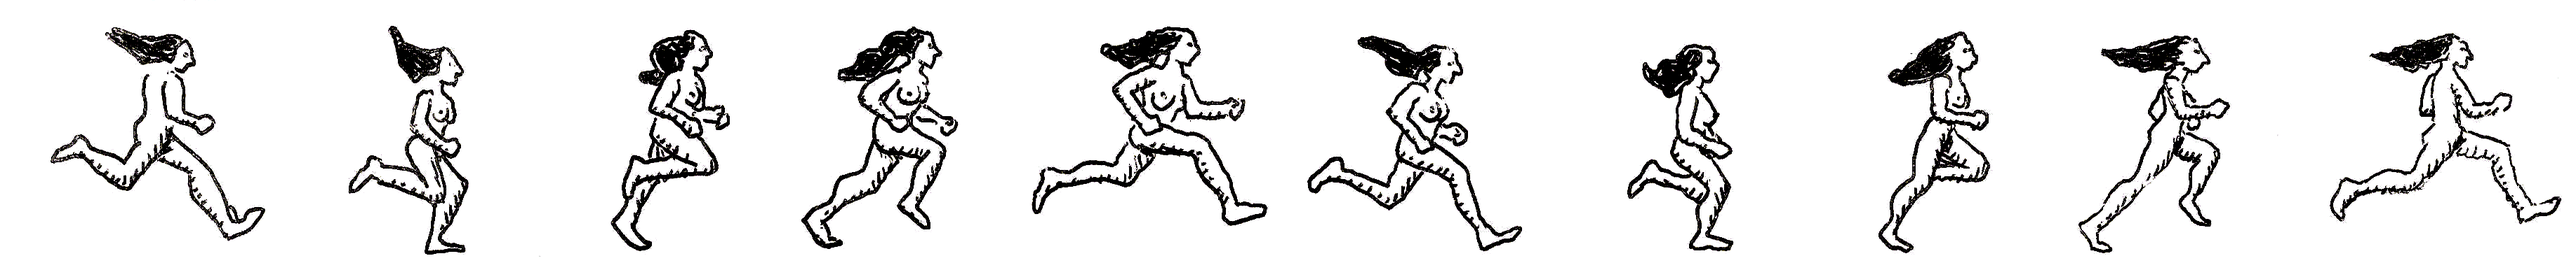
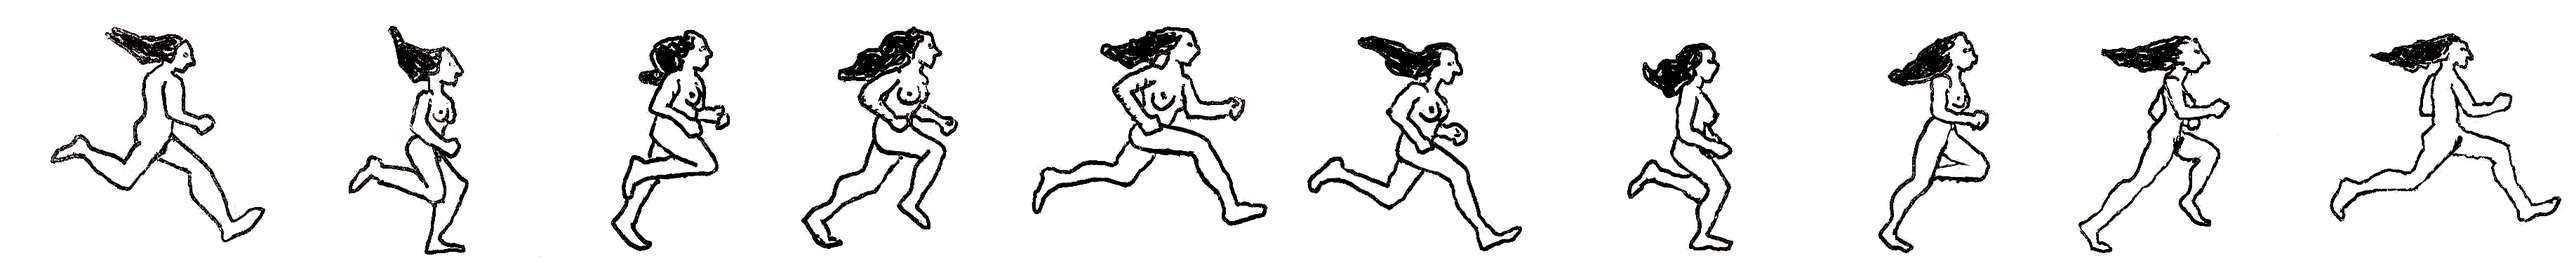
update

diff --git a/js/game.js b/js/game.js
@@ -1,15 +1,16 @@
-const game = new Phaser.Game(1000, 640, Phaser.CANVAS, 'game', {
+const game = new Phaser.Game(1200,752, Phaser.CANVAS, 'game', {
   preload,
   create,
 });
 
 function create() {
   var x  = 0;
-  for (var clip = 1; clip < 7; clip++) {
+  for (var clip = 1; clip < 6; clip++) {
     var item = game.add.sprite(x, y, 'sheet'+clip);
     item.animations.add('run');
     item.animations.play('run', 15, true);
     if(clip==3) {y+=item.height;x=0;}
+    else
     x+=item.width;
  }
 }

diff --git a/js/preload.js b/js/preload.js
@@ -1,6 +1,7 @@
 function preload() {
 this.load.path = '../assets/images/';
-for (let index = 1; index < 7; index++) {
-  this.load.spritesheet('sheet'+index,'sheet'+index+'.png',365,360);
+
+for (let index = 1; index <6; index++) {
+  this.load.spritesheet('sheet'+index,'sheet'+index+'.png',400,376);
 }
 }
